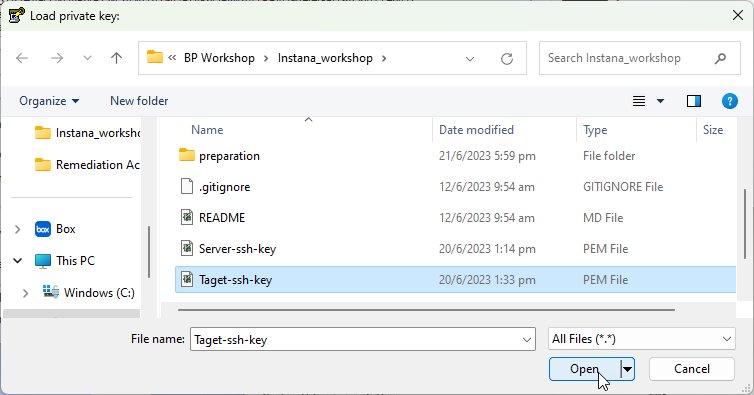
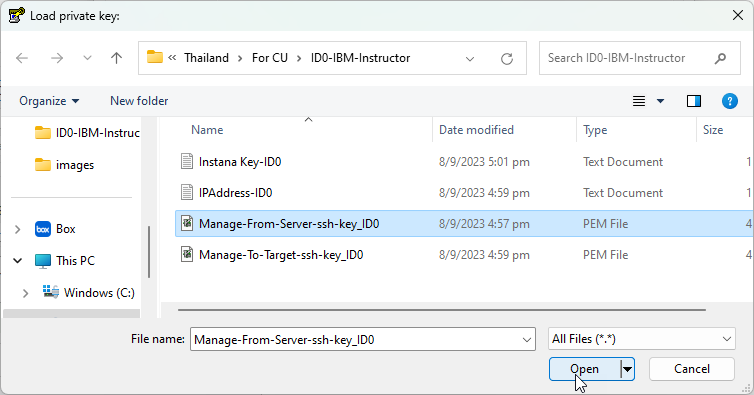
update preparation

diff --git a/preparation/ssh-with-putty.md b/preparation/ssh-with-putty.md
@@ -2,68 +2,70 @@
 
 To download putty, [here](https://www.putty.org/)
 
-1. Launch PuTTYgen
-2. Select "Import Key" from the "Conversions" menu.
+1. Download the ssh keys from the Box into your local folder of your choice.
+
+<picture>
+  <img alt="image" src="./assets/images/downloadfrombox.png">
+</picture>
+
+2. Launch PuTTYgen
+3. Select "Import Key" from the "Conversions" menu.
 
 <picture>
   <img alt="image" src="./assets/images/importKey.png">
 </picture>
 
-3. Select the "SSH key" ("Target-ssh-key.pem" or "Server-ssh-key.pem") and click open
+4. Select the "SSH key" ("Manage-From-Server-ssh-key_ID0" or "Manage-To-Target-ssh-key_ID0.pem") and click open
 
 <picture>
   <img alt="image" src="./assets/images/selectAndOpen.png">
 </picture>
 
-4.Click "Save private key". Can use any name e.g "Target-puttySSHkey". 
+5.Click "Save private key". Can use any name e.g "Manage-From-puttySSHkey". 
 > note: Leave the passphrase empty.If prompted, click "yes".
 
 <picture>
   <img alt="image" src="./assets/images/clicksavePrivateKey.png">
 </picture>
  
-<picture>
-  <img alt="image" src="./assets/images/savePrivateKey.png">
-</picture>
+6. Close PuTTYgen
 
-5. Close PuTTYgen
+7. Launch PuTTY
 
-6. Launch PuTTY
-
-7. Enter IP Address of your "Target" host and use port 2223.
+8. Enter IP Address of your "Target" host and use port 2223.
    Eneter "target-\<YOUR Target IP Address\>" in "Saved Sessions"
 
 <picture>
   <img alt="image" src="./assets/images/puttyConfig1.png">
 </picture>
 
-8.Now, need to set the converted SSH key from PuTTYgen.
+9.Now, need to set the converted SSH key from PuTTYgen.
   On the left panel, navigate to Connection-\>SSH-\>Auth-\>Credentials
 
 <picture>
   <img alt="image" src="./assets/images/setPrivateKey.png">
 </picture>
 
-9. Browse and select your save private key "Target-puttySSHkey".
+10. Browse and select your save private key "Target-puttySSHkey".
    Same for both "Private key" and "Certificate" enteries.
 
 <picture>
   <img alt="image" src="./assets/images/selectAndOpenPPK.png">
 </picture>
 
-10. Navigate to "Session" on the left panel and click "Save"
+11. Navigate to "Session" on the left panel and click "Save"
 
 <picture>
   <img alt="image" src="./assets/images/saveSession.png">
 </picture>
 
-11. Click "Open", a terminal will be open. Enter "itzuser" on login as.
+12. Click "Open", a terminal will be open. Enter "itzuser" on login as.
 
 <picture>
   <img alt="image" src="./assets/images/login.png">
 </picture>
 
 
-12. Repeat steps 1-11 for another VM, the Instana Server, using "Server-ssh-key.pem".
+13. Repeat steps 1-11 for another VM, the Instana Server, using "Server-ssh-key.pem".
 
 
